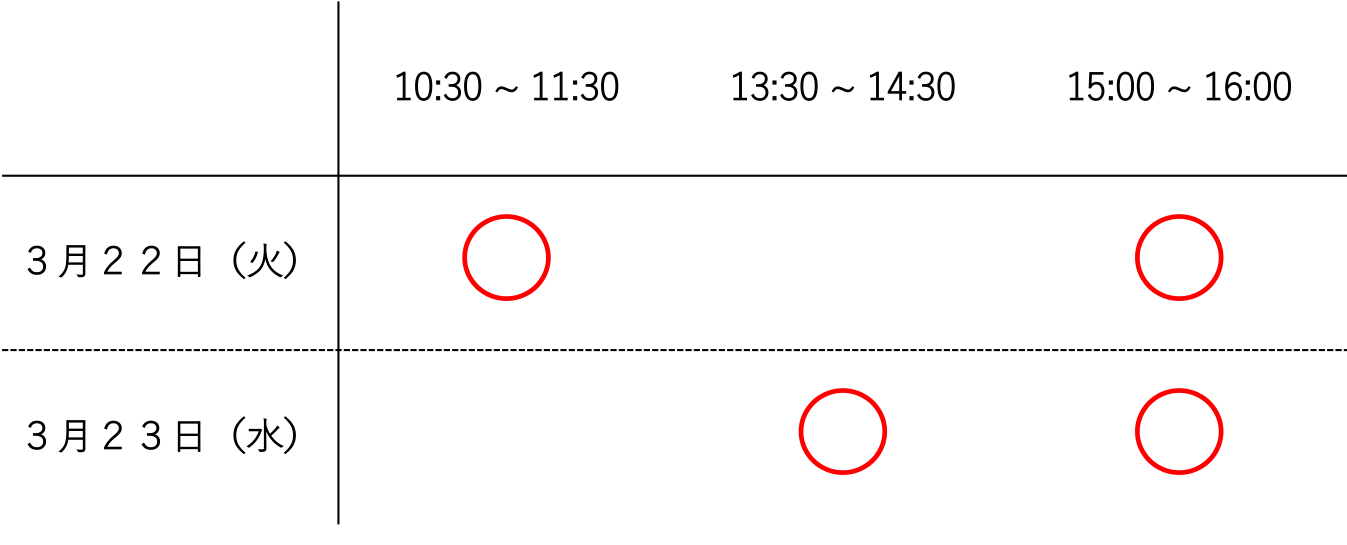
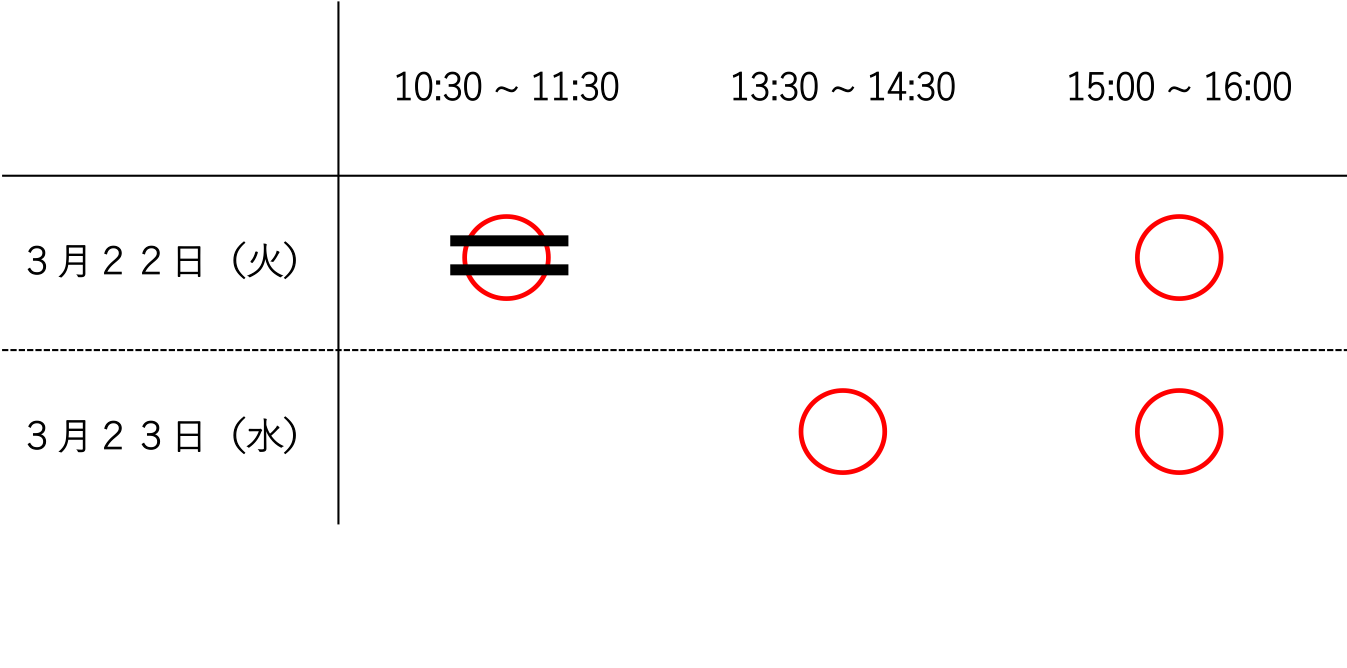
22 10:30~ owari

diff --git a/src/pages/index.js b/src/pages/index.js
@@ -203,6 +203,7 @@ export default ({ data }) => (
 
           時間：<br/>
           <Img fluid={data.sche.childImageSharp.fluid} alt="" />
+          <div className="tips" >22日(火) 10:30 からは，上限数に達しましたので，締め切りました． </div>
           <br/><br/>
 
           場所：<br/>

diff --git a/src/components/layout.css b/src/components/layout.css
@@ -539,6 +539,12 @@ video{
 .openlab .item {
 	font-size: 13px;
 }
+.openlab .tips{
+	color: black;
+	font-size: 15px;
+	text-decoration:underline;
+	text-decoration-color:#FF0000;
+}
 
 @media (min-width: 768px) {
 	.openlab .item {
